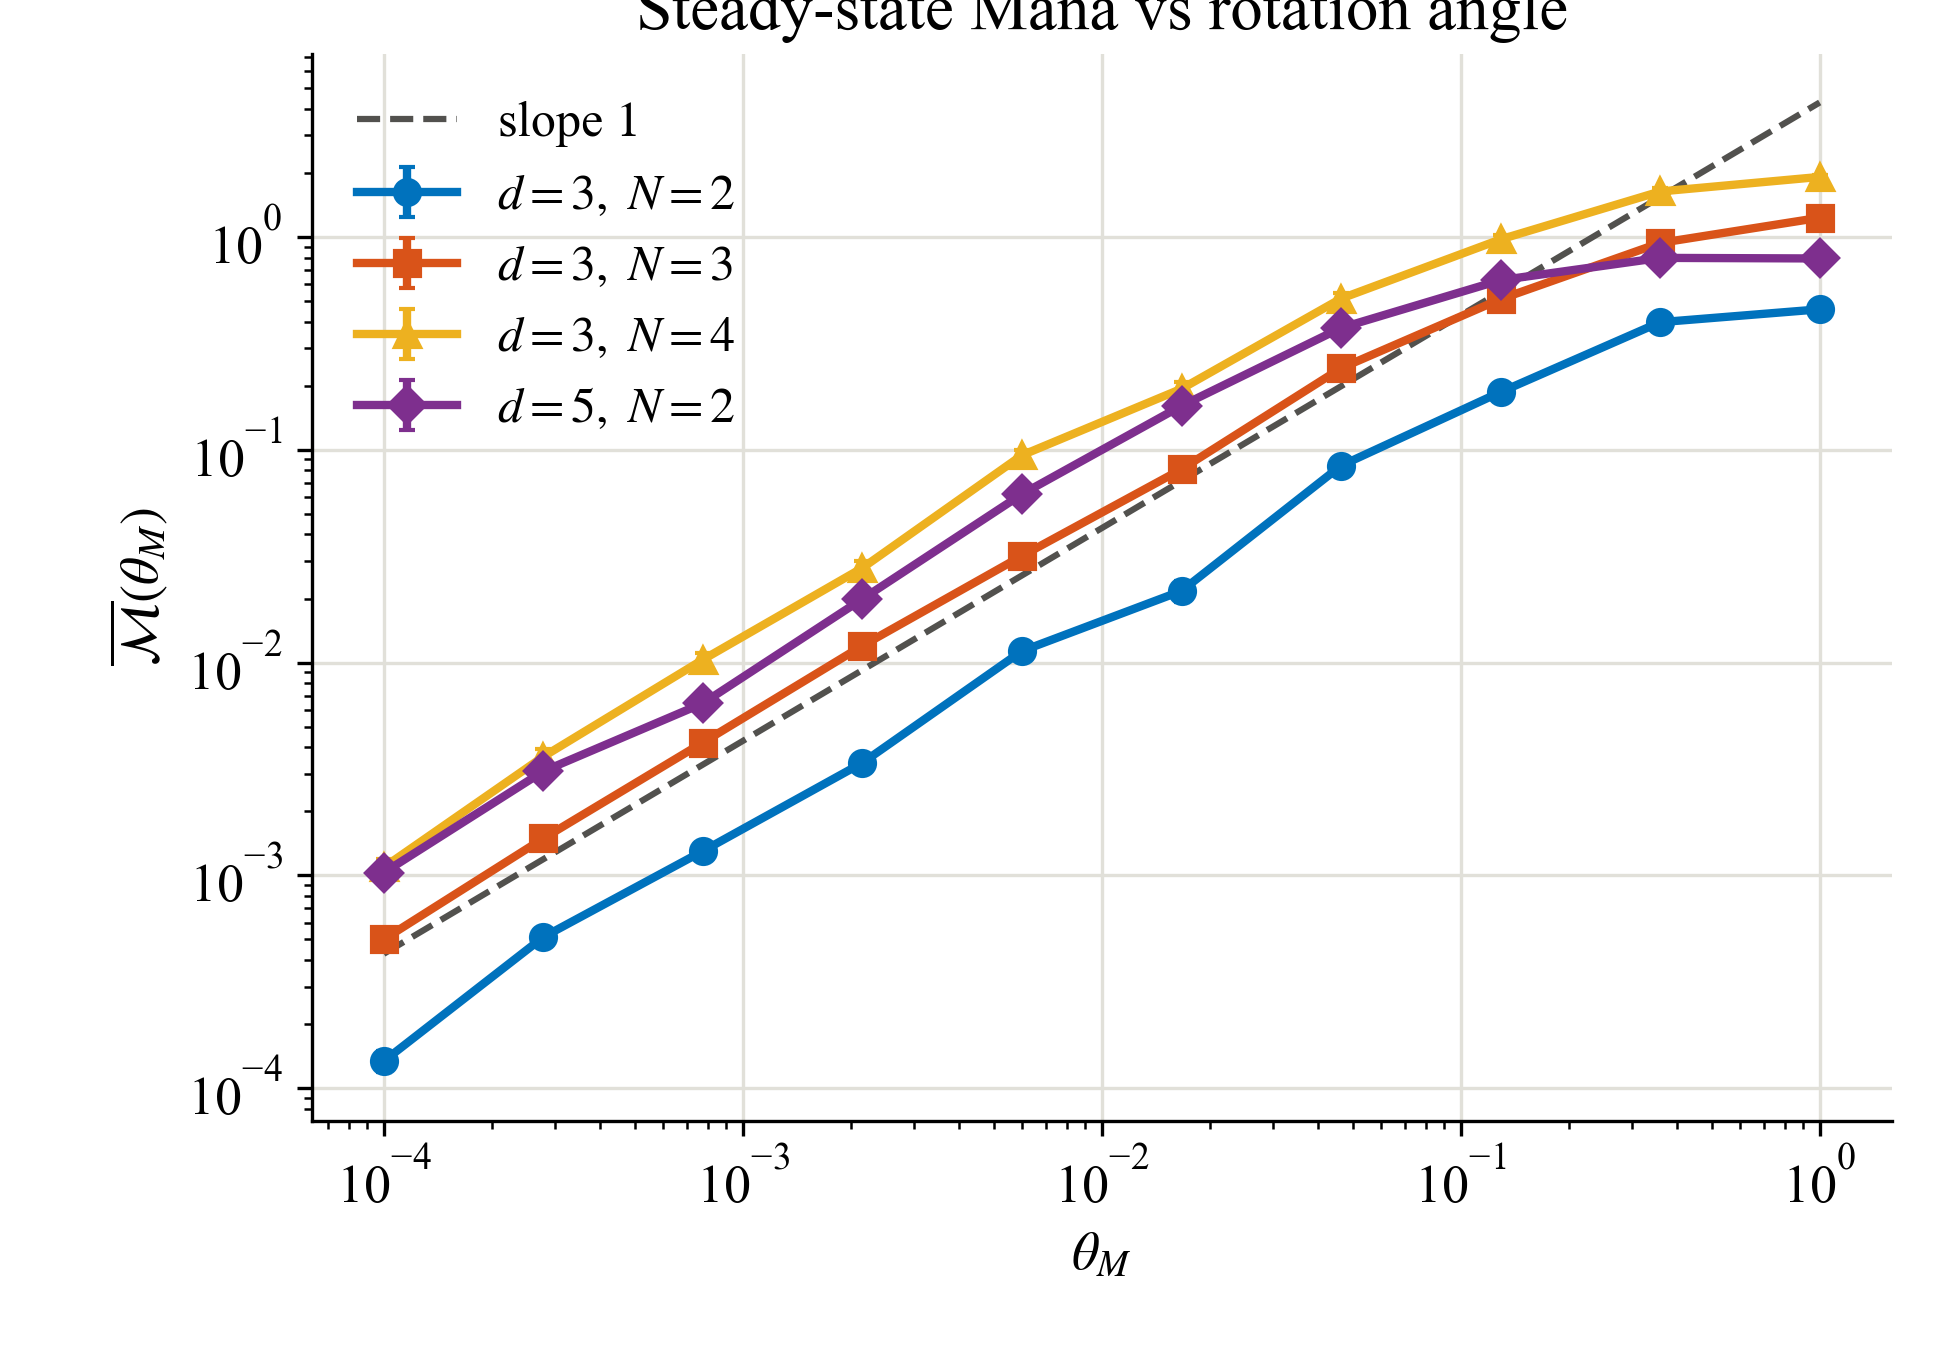
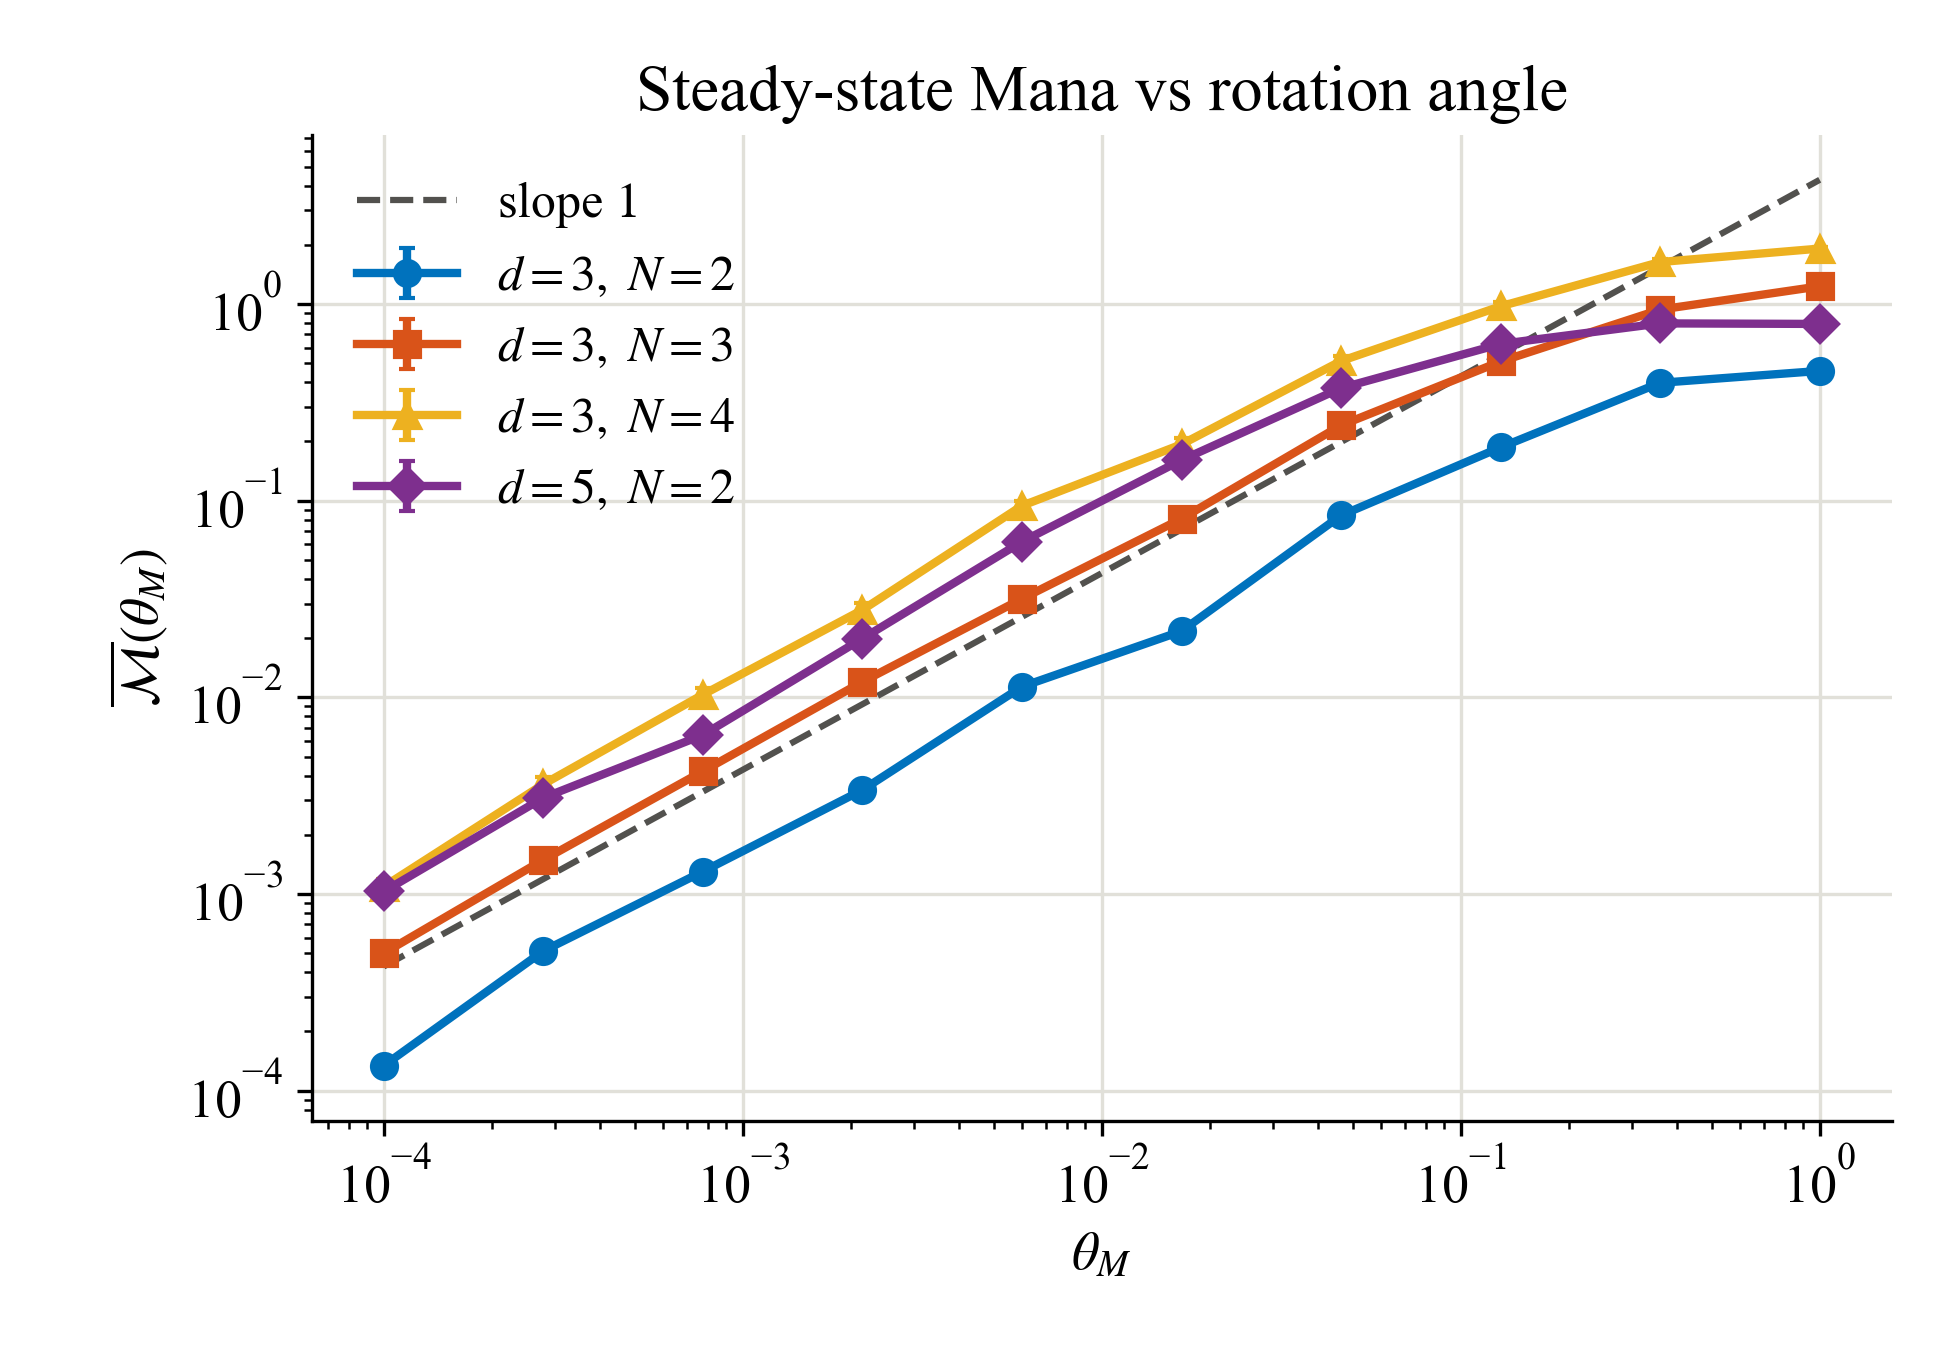
Fix figure title layout and document estimators

diff --git a/qubit_2sre_rotation/qubit_2sre_rotation.py b/qubit_2sre_rotation/qubit_2sre_rotation.py
@@ -129,7 +129,7 @@ def plot_results(data_path="qubit_2sre_rotation_data.txt", output_png=None, outp
     colors = ["#0072BD", "#D95319", "#EDB120", "#7E2F8E"]
     markers = ["o", "s", "^", "D"]
     fig, ax = plt.subplots(figsize=(6.5, 4.5))
-    fig.subplots_adjust(left=0.16, right=0.97, bottom=0.17, top=0.96)
+    fig.subplots_adjust(left=0.16, right=0.97, bottom=0.17, top=0.90)
     all_means = []
     for color, marker, n in zip(colors, markers, (6, 8, 10, 12)):
         group = sorted(

diff --git a/qudit_mana_rotation/qudit_mana_rotation.py b/qudit_mana_rotation/qudit_mana_rotation.py
@@ -126,7 +126,7 @@ def plot_results(data_path="qudit_mana_rotation_data.txt", output_png=None, outp
     import matplotlib.pyplot as plt
     plt.rcParams.update({"font.family": "Times New Roman", "mathtext.fontset": "stix", "font.size": 13, "axes.labelsize": 13, "legend.fontsize": 12, "xtick.labelsize": 13, "ytick.labelsize": 13, "pdf.fonttype": 42, "svg.fonttype": "none"})
     fig, ax = plt.subplots(figsize=(6.5, 4.5))
-    fig.subplots_adjust(left=0.16, right=0.97, bottom=0.17, top=0.96)
+    fig.subplots_adjust(left=0.16, right=0.97, bottom=0.17, top=0.90)
     all_means = []
     for color, marker, (d, n) in zip(colors, markers, ((3, 2), (3, 3), (3, 4), (5, 2))):
         group = sorted(

diff --git a/qubit_2sre_rotation/README.md b/qubit_2sre_rotation/README.md
@@ -19,7 +19,7 @@ The numbers of trajectories and evolution steps for these system sizes are:
 * `N = 10`: `Nr = 30`, `T_max = 1000`
 * `N = 12`: `Nr = 20`, `T_max = 2000`
 
-For a fixed $N$, all values of $\theta_M$ use the same `Nr` and `T_max`, so the angle dependence is compared under the same numerical budget. Each data point is the ensemble mean of the terminal value over `Nr` independent trajectories, and the error bars are standard errors $\mathrm{std}/\sqrt{N_r}$.
+For a fixed $N$, all values of $\theta_M$ use the same `Nr` and `T_max`, so the angle dependence is compared under the same numerical budget. Here `T_max` is the finite equilibration horizon preceding the observation. Each independent trajectory contributes one $S_2$ value evaluated at the terminal time `T_max`; no post-equilibration time-window average is taken. Each data point is the ensemble mean of these `Nr` terminal values, and the error bars are standard errors $\mathrm{std}(\text{terminal values},\mathrm{ddof}=1)/\sqrt{N_r}$.
 
 The observable is the total base-two stabilizer Rényi entropy
 
@@ -28,6 +28,8 @@ S_2=-\log_2\left(2^{-N}\sum_{P\in\mathcal P_N}|\langle P\rangle|^4\right),
 $$
 
 not an entropy density. The code evaluates this quantity using a blocked in-place Walsh–Hadamard transform.
+
+The dashed line is a scaling guide proportional to $\theta_M^2$, corresponding to slope two on the log--log axes. Its normalization is chosen only for visual comparison and is not obtained by fitting the numerical data. The weak-injection results are compared with the predicted quadratic scaling $\overline S_{2,T}(\theta_M)\propto\theta_M^2$.
 
 The main files in this directory are:
 

diff --git a/qudit_mana_rotation/README.md b/qudit_mana_rotation/README.md
@@ -22,7 +22,7 @@ All four parameter blocks use `T_max = 500`. The corresponding trajectory number
 * `(3, 4)`: `Nr = 30`
 * `(5, 2)`: `Nr = 50`
 
-For a fixed $(d,N)$, all values of $\theta_M$ use the same `Nr` and `T_max`, so the angle dependence is compared under the same numerical budget. Each data point is the ensemble mean of the terminal mana over `Nr` independent trajectories, and the error bars are standard errors $\mathrm{std}/\sqrt{N_r}$.
+For a fixed $(d,N)$, all values of $\theta_M$ use the same `Nr` and `T_max`, so the angle dependence is compared under the same numerical budget. Here `T_max` is the finite equilibration horizon preceding the observation. Each independent trajectory contributes one mana value evaluated at the terminal time `T_max`; no post-equilibration time-window average is taken. Each data point is the ensemble mean of these `Nr` terminal values, and the error bars are standard errors $\mathrm{std}(\text{terminal values},\mathrm{ddof}=1)/\sqrt{N_r}$.
 
 For $d=3$, the injection phases are
 
@@ -44,6 +44,8 @@ $$
 $$
 
 using a pure-state multidimensional FFT kernel.
+
+The dashed line is a scaling guide proportional to $\theta_M$, corresponding to slope one on the log--log axes. Its normalization is chosen only for visual comparison and is not obtained by fitting the numerical data. The weak-injection results are compared with the predicted linear scaling $\overline{\mathcal M}_T(\theta_M)\propto\theta_M$.
 
 The main files in this directory are:
 